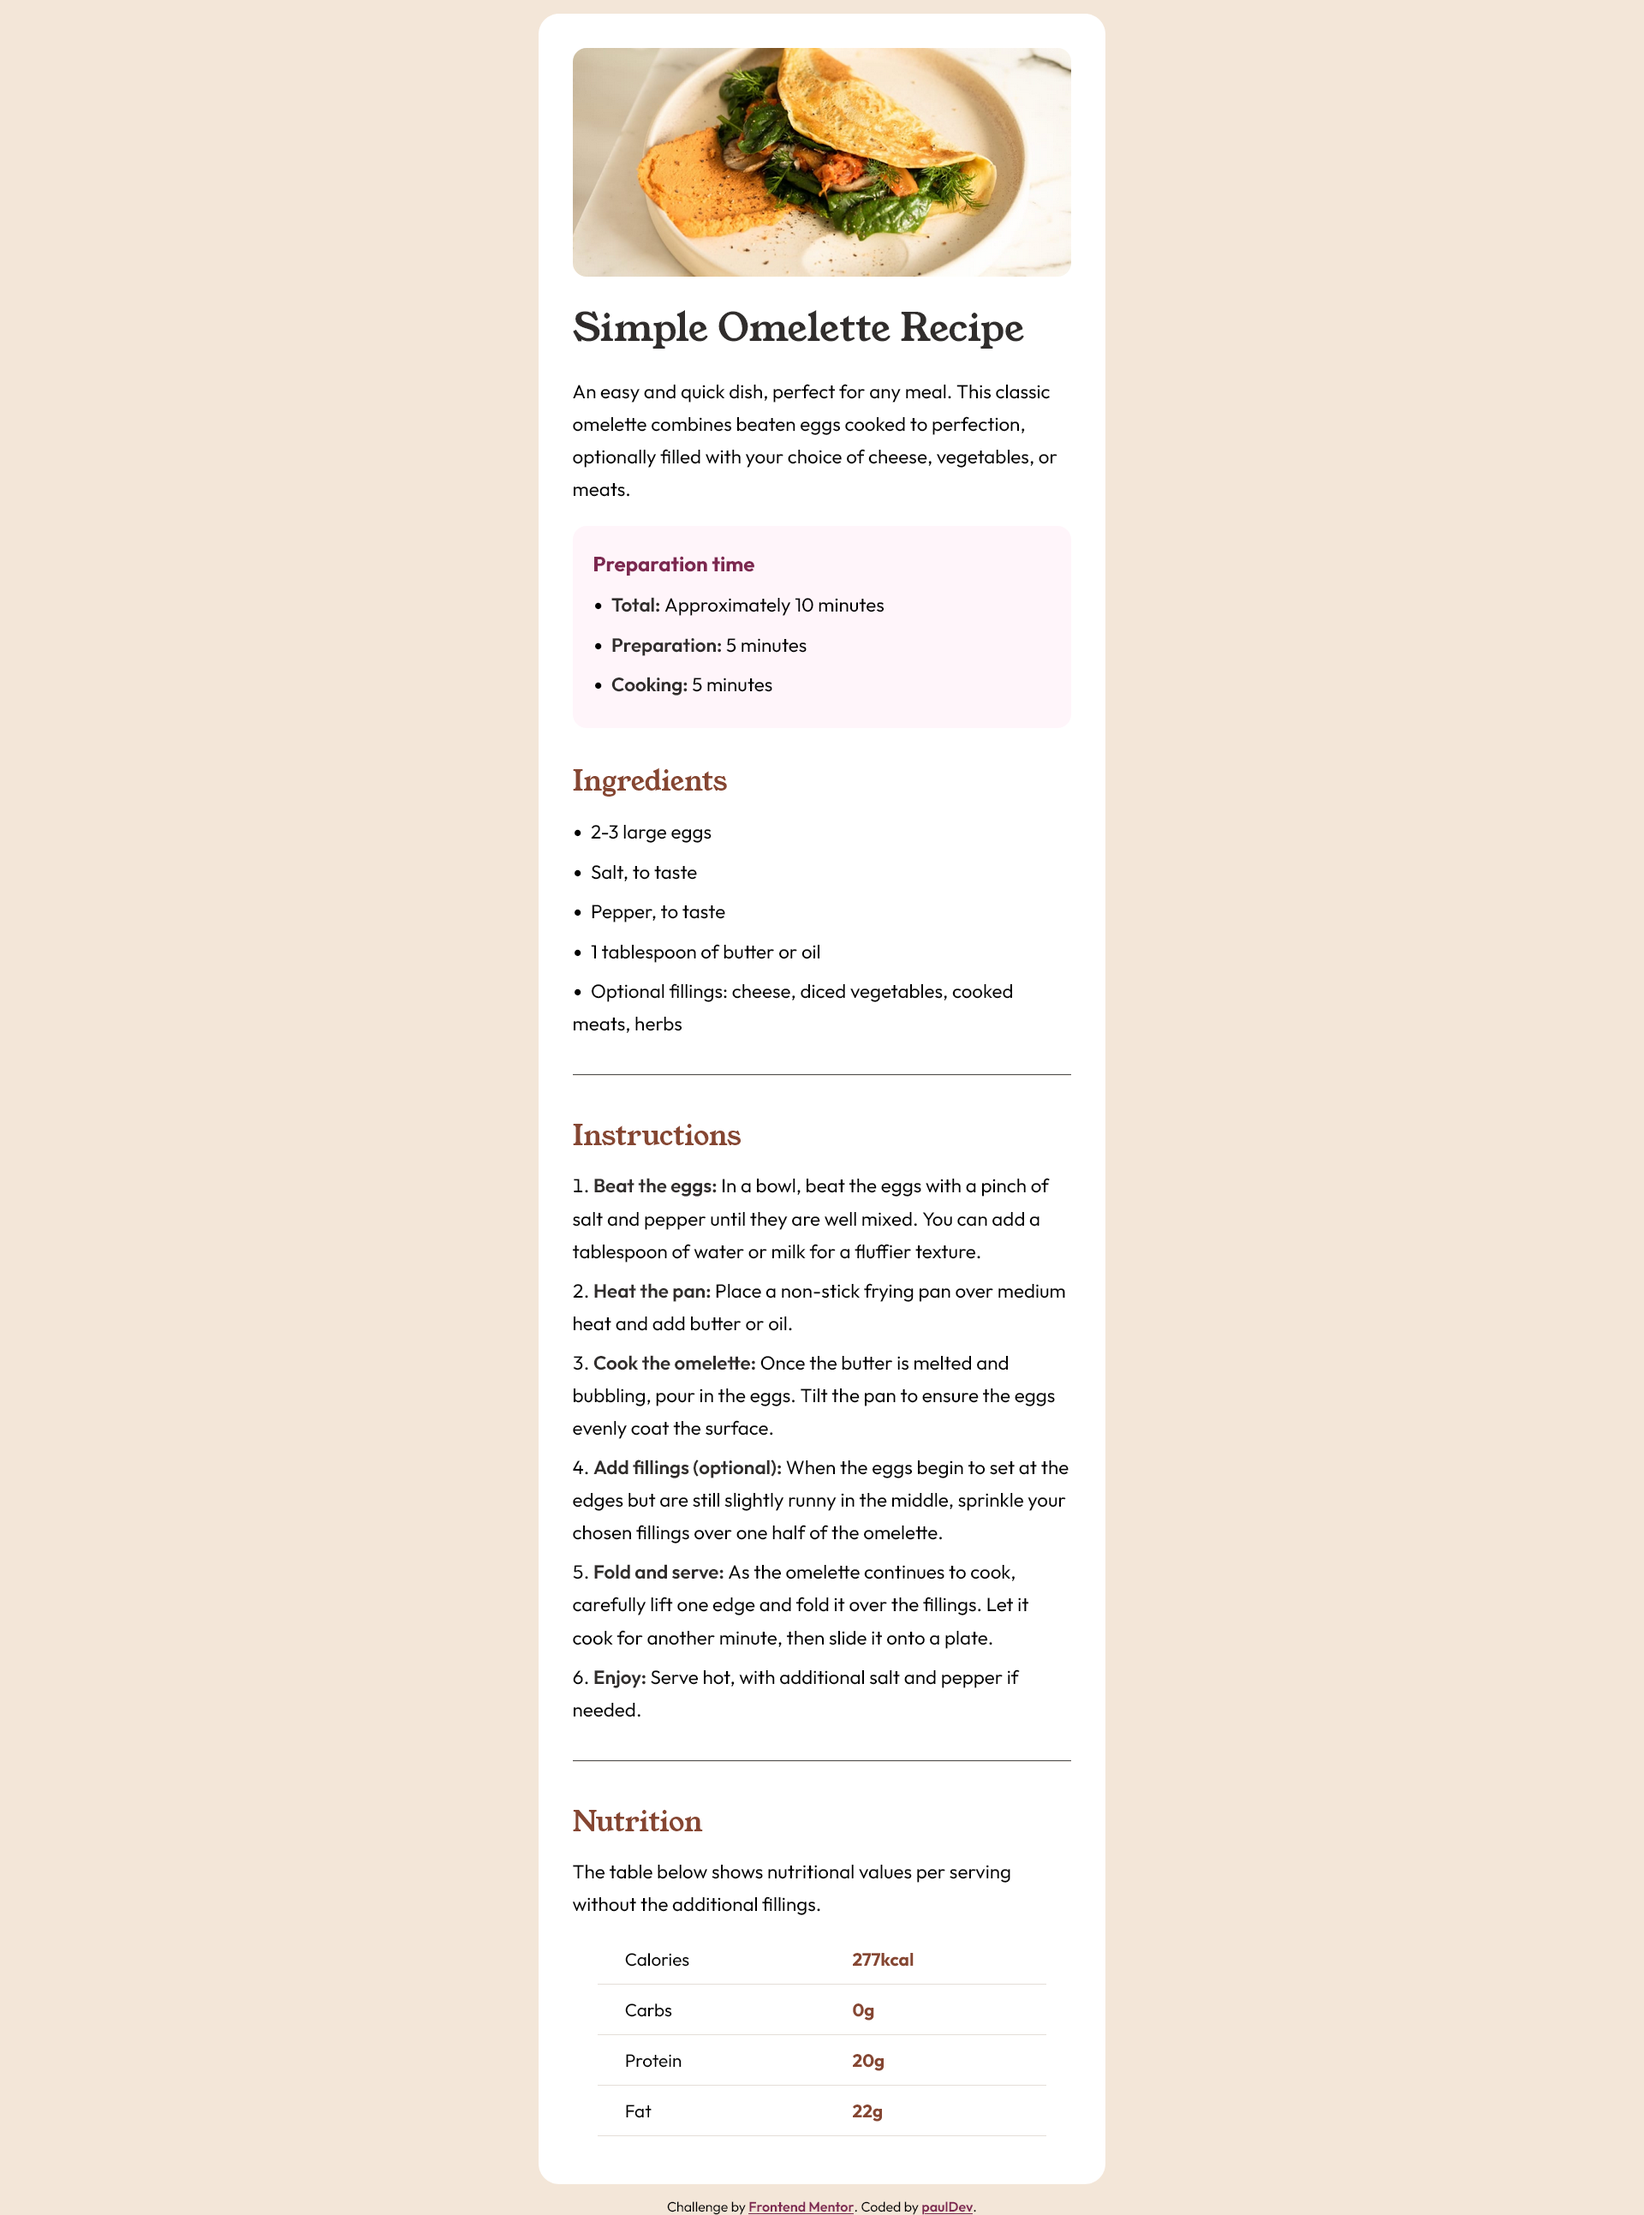
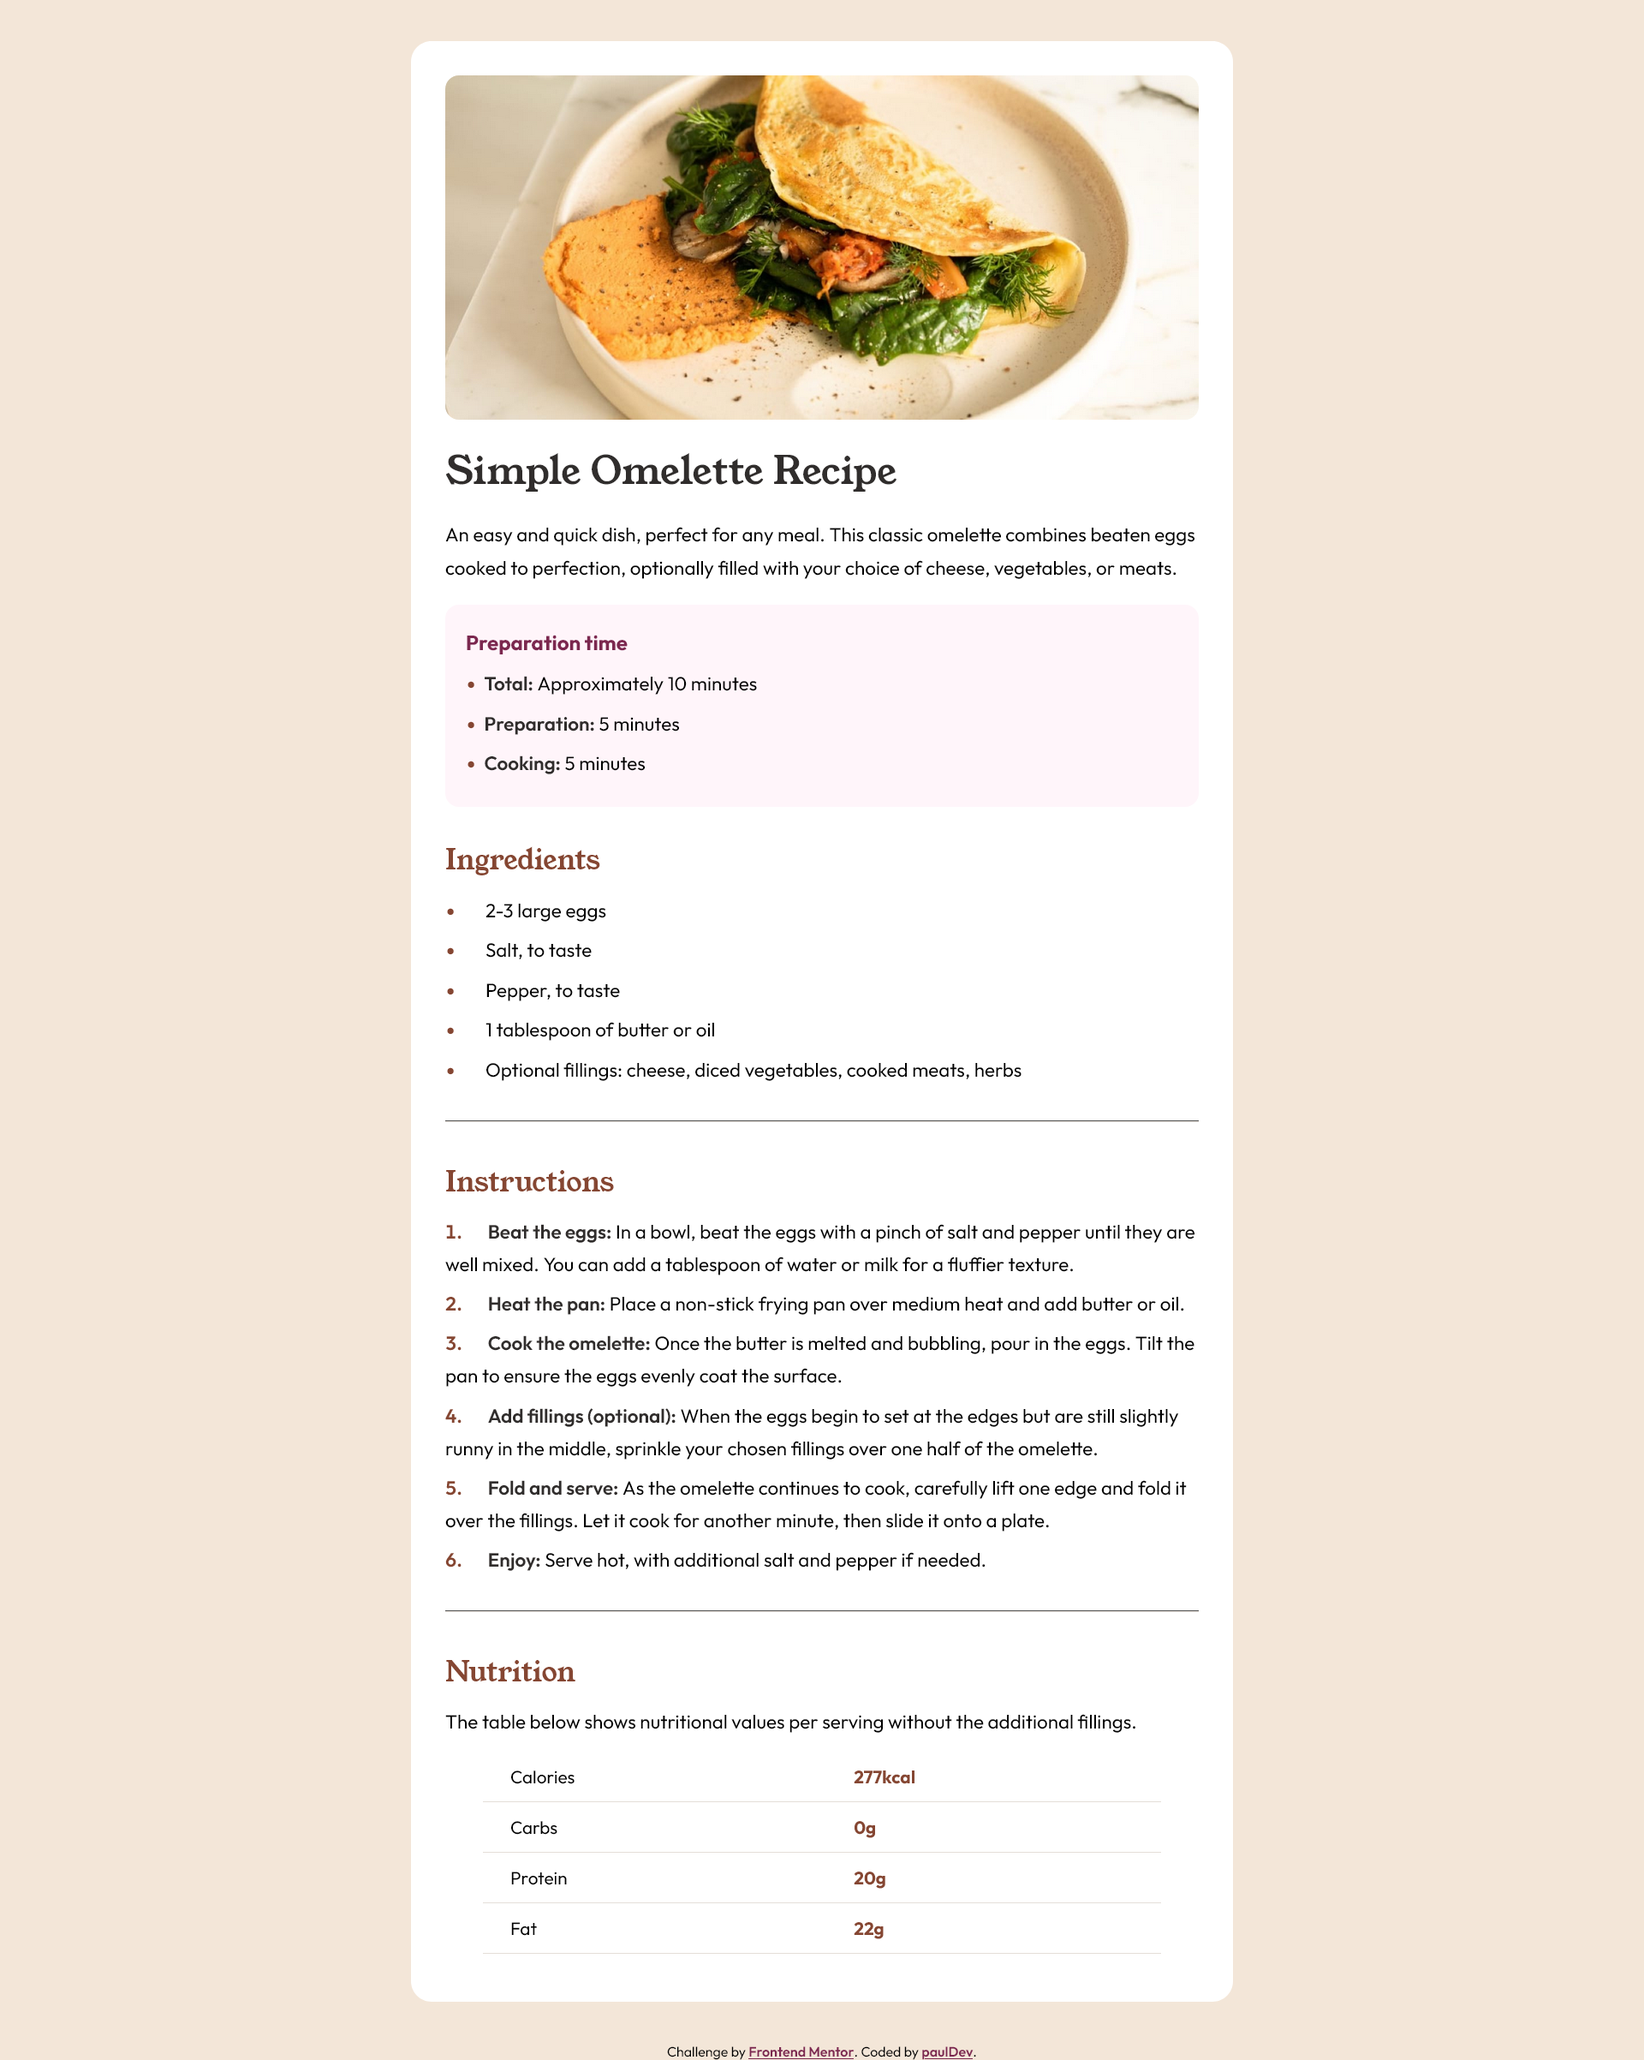
some size changes

Changed region(s): [[0.25, 0.0, 0.75, 1.0]]

diff --git a/style.css b/style.css
@@ -42,8 +42,8 @@ main {
 
 /* Recipe component */
 .omelette-recipe {
-    max-width: 70vh;
-    width: 100%;
+    max-width: 60rem;
+    width: 85vw;
     display: flex;
     flex-flow: column;
     background-color: var(--white);
